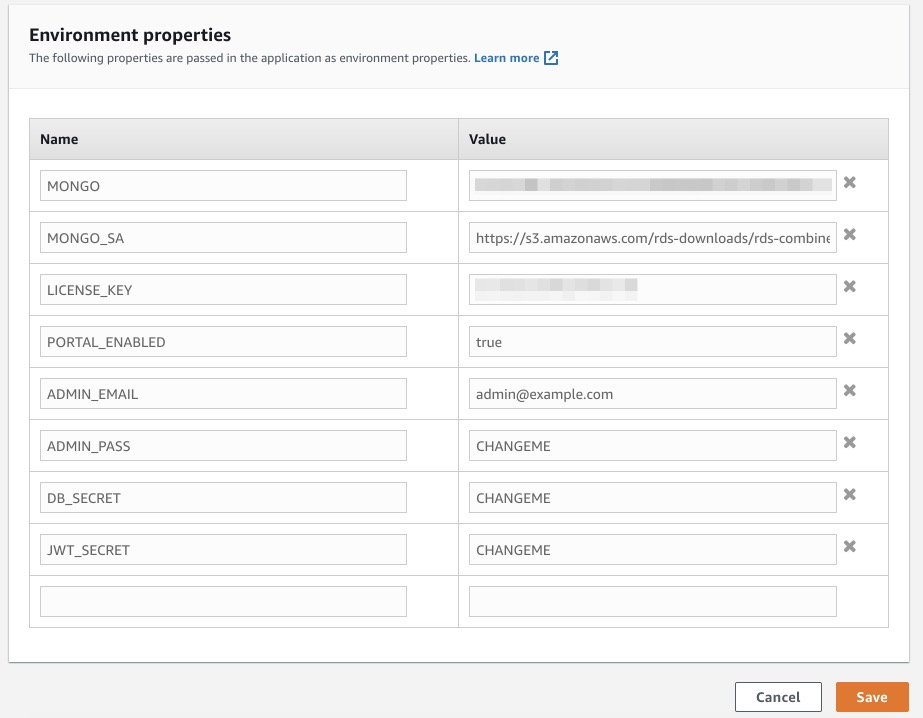
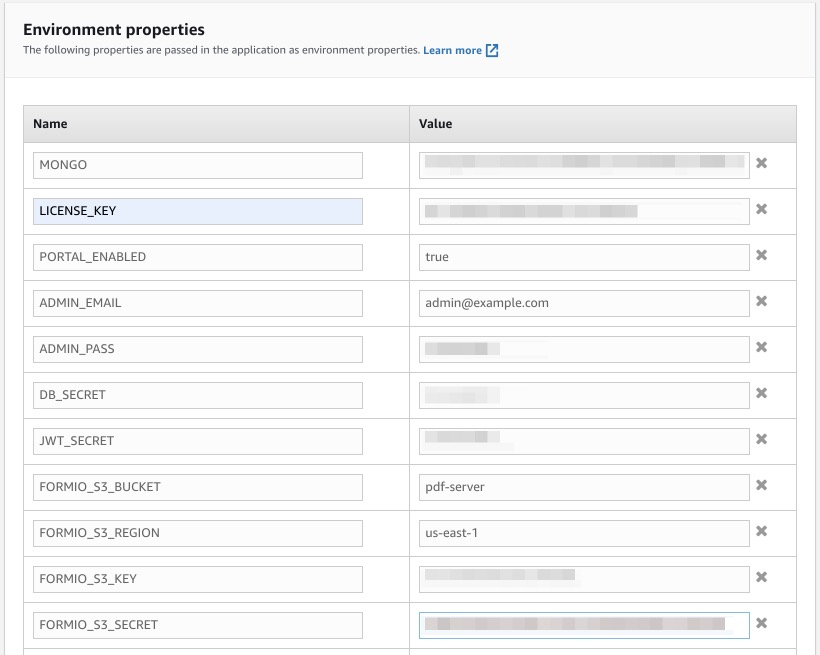
Updated docs for AWS deployments.

diff --git a/_paragraphs/tutorials/deployment/aws/beanstalk.md b/_paragraphs/tutorials/deployment/aws/beanstalk.md
@@ -6,25 +6,19 @@ chapter: aws
 slug: aws-beanstalk
 weight: 12
 ---
-Now that we have our database and redis configured, we will be using **Elastic Beanstalk** to manage our docker deployments.
+Now that we have our database and S3 configured, we will be using **Elastic Beanstalk** to manage our docker deployments.
 
  - Within the AWS Home page, type **Elastic Beanstalk** into the search and click on the link provided.
- - Once you are within the **Elastic Beanstalk** main page, you will want to click on the link that says **Create New Environment**
+ - Once you are within the **Elastic Beanstalk** main page, you will want to click on the link that says **Create Application**
 
-    ![](/assets/img/integrations/aws/eb/ebcreate.png){: .img-fluid .img-thumbnail }
+    ![](/assets/img/integrations/aws/eb/ebcreateapp.jpg){: .img-fluid .img-thumbnail }
 
- - In the next screen, select **Web server environment** and then click **Select**
-    ![](/assets/img/integrations/aws/eb/selectenv.jpg){: .img-fluid .img-thumbnail }
-
+ - NOTE: You may see a different page that has a link that says **Create New Environment**. If so, then click on that link, and then select the **Web server environment** on the next page and press **Select**.
  - In the next screen, provide an **Application Name**
 
     ![](/assets/img/integrations/aws/eb/appname.jpg){: .img-fluid .img-thumbnail }
 
- - Scroll down and then provide an **Environment Name**
-
-    ![](/assets/img/integrations/aws/eb/envname.jpg){: .img-fluid .img-thumbnail }
-
- - Scroll down some more and then select **Docker** as the environment. Just use the defaults provided for the other fields.
+ - Scroll down and then select **Docker** as the environment, and then select **Multi-container Docker**.
 
     ![](/assets/img/integrations/aws/eb/docker.jpg){: .img-fluid .img-thumbnail }
 
@@ -32,9 +26,9 @@ Now that we have our database and redis configured, we will be using **Elastic B
 
     ![](/assets/img/integrations/aws/eb/uploadcode.jpg){: .img-fluid .img-thumbnail }
 
- - **Application Code**: For this, we will want to upload a ZIP provided @ [https://github.com/formio/aws-formio-deployment/raw/master/latest.zip](https://github.com/formio/aws-formio-deployment/raw/master/latest.zip). After you click Upload button, we will select this file as follows.
+ - **Application Code**: For this, we will want to upload a ZIP provided @ [https://github.com/formio/aws-formio-deployment/raw/master/multicontainer.zip](https://github.com/formio/aws-formio-deployment/raw/master/multicontainer.zip). After you click Upload button, we will select this file as follows.
 
-    ![](/assets/img/integrations/aws/eb/uploadcode.png){: .img-fluid .img-thumbnail }
+    ![](/assets/img/integrations/aws/eb/uploadzip.jpg){: .img-fluid .img-thumbnail }
 
  - Next click on the button that says **Configure More Options**
 
@@ -50,13 +44,18 @@ Now that we have our database and redis configured, we will be using **Elastic B
    | Setting | Description | Example |
    |---------|-------------|---------|
    | MONGO | The MongoDB connection string to connect to your remote database. This is the value we copied before. | mongodb://formio:badpassword@docdb-2019-02-05-03-07-17.cluster-otsyrtio9xoe.us-east-1.docdb.amazonaws.com:27017/formio?ssl=true |
-   | MONGO_SA | The URL to the MongoDB SA public certificate file. Copy this value as is. | https://s3.amazonaws.com/rds-downloads/rds-combined-ca-bundle.pem |
    | LICENSE_KEY | The license key for your deployment. You will get this when you upgrade a project to Enterprise. | <---YOUR LICENSE---> |
    | PORTAL_ENABLED | Used to enable the On-Premise portal | true |
    | ADMIN_EMAIL | An admin account you would like to use as the first Admin user | admin@example.com |
    | ADMIN_PASS | A password for the first Admin user. This can be changed after the deployment is finished. | CHANGEME |
    | DB_SECRET | A secure secret that you will pick that is used to encrypt the project settings. | CHANGEME |
    | JWT_SECRET | A secure secret that you will pick that is used to establish secure JWT tokens. | CHANGEME |
+   | FORMIO_S3_BUCKET | This is the name of the Bucket we created in the previous section | pdf-server |
+   | FORMIO_S3_REGION | This is the region which the S3 bucket was created | us-east-1 |
+   | FORMIO_S3_KEY | This is the Key we saved in the previous step. | ATHSLKJK234LSDLLKJS |
+   | FORMIO_S3_SECRET | This is the Secret Key that we saved in the previous step. | nsl23lkjsdf9009sllkjowoi8sous923sd |
+
+ - NOTE: If you wish to secure your Environment Variables from visibility, then we recommend looking into the Amazon Key Management Service @ [https://aws.amazon.com/kms](https://aws.amazon.com/kms).
 
  - These settings will look like the following.
 
@@ -71,8 +70,28 @@ Now that we have our database and redis configured, we will be using **Elastic B
 
     ![](/assets/img/integrations/aws/eb/ec2securitygroups.jpg){: .img-fluid .img-thumbnail }
 
- - Now press the **Save** Button to save your environment settings.
- - You can now press the **Create Environment** button at the bottom of the page to build your environment.
- - This will now create a new Environment within AWS for your deployment. You are now ready to attach your Domains to the deployment.
+ - Next we will configure the **Capacity** settings.
 
+    ![](/assets/img/integrations/aws/eb/capacity.jpg){: .img-fluid .img-thumbnail }
 
+ - Within this section, we will make sure we select a size of instance that is suitable for our Environment. Form.io recommends the following configurations for the following environments.
+
+    {: .table .table-bordered .table-striped}
+    | Environment Type | Instance Size |
+    |---------|-------------|
+    | Development Environments | at least **t3.medium** |
+    | Production Environments | at least **t3.large** |
+
+   For this example, we will just select **t3.medium**.
+
+    ![](/assets/img/integrations/aws/eb/instance-type.jpg){: .img-fluid .img-thumbnail }
+
+   Now press **Save** button at the bottom of the page.
+
+ - Now press the **Save** Button to save all of your environment settings.
+ - You can now press the **Create App** button at the bottom of the page to build your environment.
+ - This will now create a new Environment within AWS for your deployment. We can now click on the Application URL and you should now see your portal.
+
+    ![](/assets/img/integrations/aws/eb/gotoenv.jpg){: .img-fluid .img-thumbnail }
+
+   We are now ready to create a new Project!

diff --git a/_paragraphs/tutorials/deployment/aws/s3.md b/_paragraphs/tutorials/deployment/aws/s3.md
@@ -1,0 +1,66 @@
+---
+title: S3
+book: tutorials
+section: deployment
+chapter: aws
+slug: aws-s3
+weight: 10
+---
+Before we setup our API and PDF servers, we need to first setup an S3 Bucket which will contain the uploaded PDF's used by the PDF server.
+
+ - To setup an S3 bucket, we will first just navigate to the S3 section of Amazon AWS by clicking on the home page, and then typing **S3** in the Search bar. Click on **S3** in the Search results.
+
+    ![](/assets/img/integrations/aws/eb/s3.jpg){: .img-fluid .img-thumbnail }
+
+ - On the next page, click on the **Create Bucket** button.
+ - On the next page, give it a **Bucket Name** of **pdf-server**, and then click **Next**
+ - Now skip over the **Configure Options** page by pressing **Next**
+ - Now skip over the **Set permissions** page by pressing **Next**
+ - Finally, press **Create Bucket** to create your new S3 bucket.
+ - Now that we have an S3 bucket created, we now need to create an **IAM** role with admin rights to this S3 bucket. We will do this by navigating back to the AWS homepage and then typing **IAM** in the Search bar.
+
+    ![](/assets/img/integrations/aws/eb/iam.jpg){: .img-fluid .img-thumbnail }
+
+ - Within the **IAM** page, we will create a new user by clicking on **Users** and then clicking on **Add User**.
+
+    ![](/assets/img/integrations/aws/eb/adduser.jpg){: .img-fluid .img-thumbnail }
+
+ - In the next page, we will call our User **pdf-server**, and we will want to make sure to check the **Programmatic Access** under the Access Type section. Then click the **Next** button.
+
+    ![](/assets/img/integrations/aws/eb/iam-access.jpg){: .img-fluid .img-thumbnail }
+
+ - In the **Permissions** page, we will want to **Attach existing policies directly**, and then we will want to **Create Policy**.
+
+    ![](/assets/img/integrations/aws/eb/attach-policy.jpg){: .img-fluid .img-thumbnail }
+
+ - This will open up the "Create Policy" page. In this page, we will first want to click on **Choose a service**. Select **S3**.
+
+    ![](/assets/img/integrations/aws/eb/policy-service.jpg){: .img-fluid .img-thumbnail }
+
+ - Skip over the **Actions** section.
+
+    ![](/assets/img/integrations/aws/eb/policy-actions.jpg){: .img-fluid .img-thumbnail }
+
+ - In the next **Resources** section, we will want to click on the **Add ARN** link next to the **bucket** section. Here we will provide our **pdf-server** bucket in the name, and then click **Add**
+
+    ![](/assets/img/integrations/aws/eb/s3-arn.jpg){: .img-fluid .img-thumbnail }
+
+ - In the **object** resource section, click **Add ARN** and then provide the **pdf-server** bucket name, and then click on the **Any** checkbox for the **object** section.
+
+    ![](/assets/img/integrations/aws/eb/s3-object.jpg){: .img-fluid .img-thumbnail }
+
+ - For the other **Resources**, click on them and then click on the **Any** settings for all of them. When you are done, it should look like the following.
+
+    ![](/assets/img/integrations/aws/eb/s3-resources.jpg){: .img-fluid .img-thumbnail }
+
+ - You can now click on the **Review Policy** button at the bottom of the page.
+ - For the **Name**, just provide **pdf-server-s3**, then click on the **Create policy** button.
+
+    ![](/assets/img/integrations/aws/eb/s3-policy.jpg){: .img-fluid .img-thumbnail }
+
+ - Now that a policy has been created, we can attach that policy to the **IAM** role by going back to that page and then search for **pdf-server-s3** in the search bar.
+
+    ![](/assets/img/integrations/aws/eb/user-policy.jpg){: .img-fluid .img-thumbnail }
+
+ - Now, click on the **Next** button in the **IAM** wizard. Skip ahead until you get to the **Review** page, and then click **Create user**
+ - On the next page, make sure to copy the **Access Key ID** as well as the **Secret access key**, and save this for later. We are now ready to move onto setting up the **Elastic Beanstalk** deployment!

diff --git a/_paragraphs/tutorials/deployment/aws/documentdb.md b/_paragraphs/tutorials/deployment/aws/documentdb.md
@@ -22,13 +22,13 @@ To get this setup, please follow the following instructions.
 
     ![](/assets/img/integrations/aws/eb/createcluster.png){: .img-fluid .img-thumbnail }
 
- - Now that our DocumentDB cluster is created, we will now click on the cluster link, and then copy the connection string. It should look like the following.
+ - Now that our DocumentDB cluster is created, we will now click on the cluster link, and then copy the application connection string. It should look like the following.
 
     ```
     mongodb://formio:<insertYourPassword>@docdb-2019-02-05-03-07-17.cluster-otsyrtio9xoe.us-east-1.docdb.amazonaws.com:27017/?ssl_ca_certs=rds-combined-ca-bundle.pem&replicaSet=rs0
     ```
 
- - Next, we will want to change this connection string to be a standard connection string. We do this by first adding our database name to the end of ```:27017/```. We can pick any name here, but for this example, lets use **formio**
+ - Next, we will want to change this connection string to be a standard connection string. We will do this by first removing everything after the ":27017/", and then adding our database name to the end of ```:27017/```. We can pick any name here, but for this example, lets use **formio**
 
     ```
     mongodb://formio:<insertYourPassword>@docdb-2019-02-05-03-07-17.cluster-otsyrtio9xoe.us-east-1.docdb.amazonaws.com:27017/formio

diff --git a/_paragraphs/tutorials/deployment/aws/project.md b/_paragraphs/tutorials/deployment/aws/project.md
@@ -1,0 +1,29 @@
+---
+title: Form.io Project
+book: tutorials
+section: deployment
+chapter: aws
+slug: aws-project
+weight: 13
+---
+ - Now that we have our deployment up and running, the first step is to login to our new deployment. On the first page, we will now use the ADMIN_EMAIL and ADMIN_PASS values (which we added to the Environment Variables in a previous step) to authenticate into the developer portal.
+
+    ![](/assets/img/integrations/aws/eb/login.jpg){: .img-fluid .img-thumbnail }
+
+ - Once you are logged into the Developer Portal, we will now create a new Project.
+
+    ![](/assets/img/integrations/aws/eb/newproject.jpg){: .img-fluid .img-thumbnail }
+
+ - In the popup modal, give your project a title and then click **Create Project**
+
+    ![](/assets/img/integrations/aws/eb/projecttitle.jpg){: .img-fluid .img-thumbnail }
+
+ - Once you are within the Project page, click on the **Settings** button, then click **PDF Server** section.
+
+    ![](/assets/img/integrations/aws/eb/pdfsettings.jpg){: .img-fluid .img-thumbnail }
+
+ - Next, set the PDF Server URL to the Domain name of your API server + '/files' like so.
+
+    ![](/assets/img/integrations/aws/eb/pdfurl.jpg){: .img-fluid .img-thumbnail }
+
+ - You are now completely configured and ready to upload PDF files and generate PDF's of the submissions within Form.io!

diff --git a/_paragraphs/tutorials/deployment/aws/route.md b/_paragraphs/tutorials/deployment/aws/route.md
@@ -8,15 +8,15 @@ weight: 15
 ---
 Now that your Environment is up and running, the next task is to attach a Domain to the Elastic Beanstalk deployment. If you configured the Elastic Beanstalk deployment to use High Availability, then it will have created some Elastic Load Balancers in front of the deployment which you can link the DNS records against.
 
-  - To get started, we will click on **Route 53**
+  - To get started, navigate to the homepage and then search for **Route 53**
 
-    <img src="/assets/img/developer/deployments/aws/route53.png" />
+    ![](/assets/img/integrations/aws/eb/route53.jpg){: .img-fluid .img-thumbnail }
 
   - Next, you will need to created a **Hosted Zone**
 
-    <img src="/assets/img/developer/deployments/aws/hostzone.png" />
+    ![](/assets/img/integrations/aws/eb/hostedzone.jpg){: .img-fluid .img-thumbnail }
 
-  - You will now provide your domain name and then press **Create**
+  - You will now provide your domain name and then press **Create hosted zone**
   - Next, you will create a new **Record Set** and then provide the following record.
     - ```*```.yourdomain.com
     - Type - A Record
